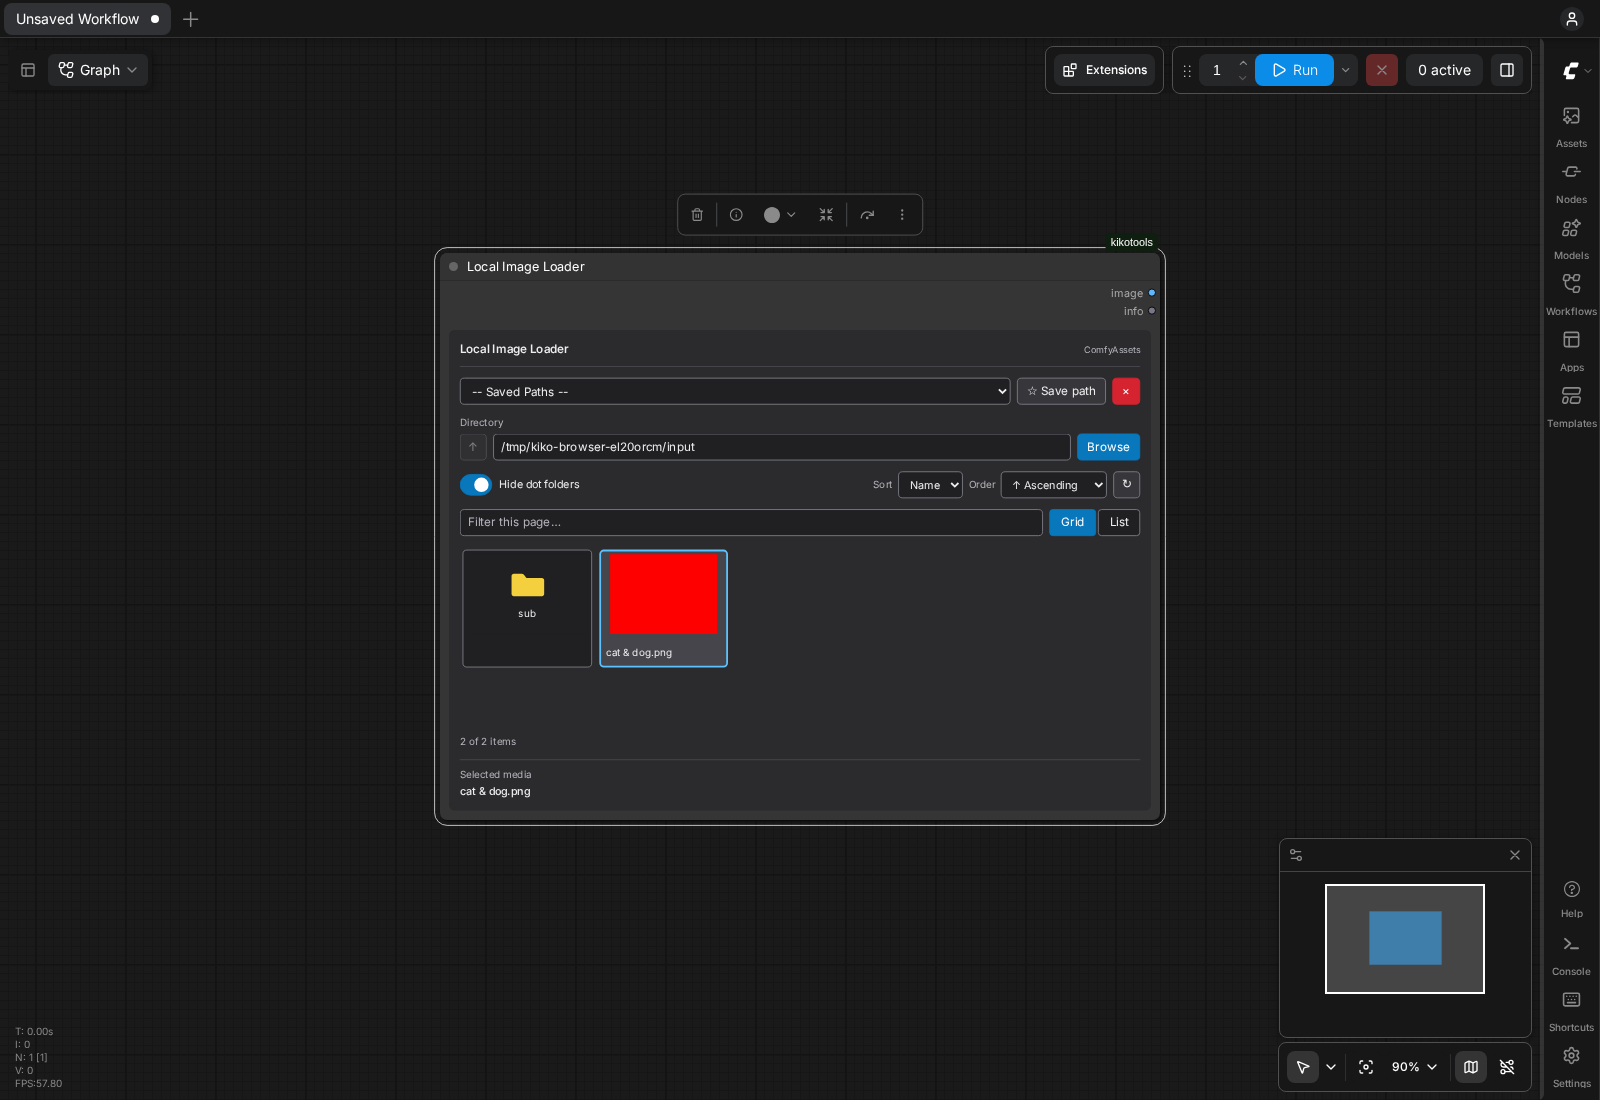
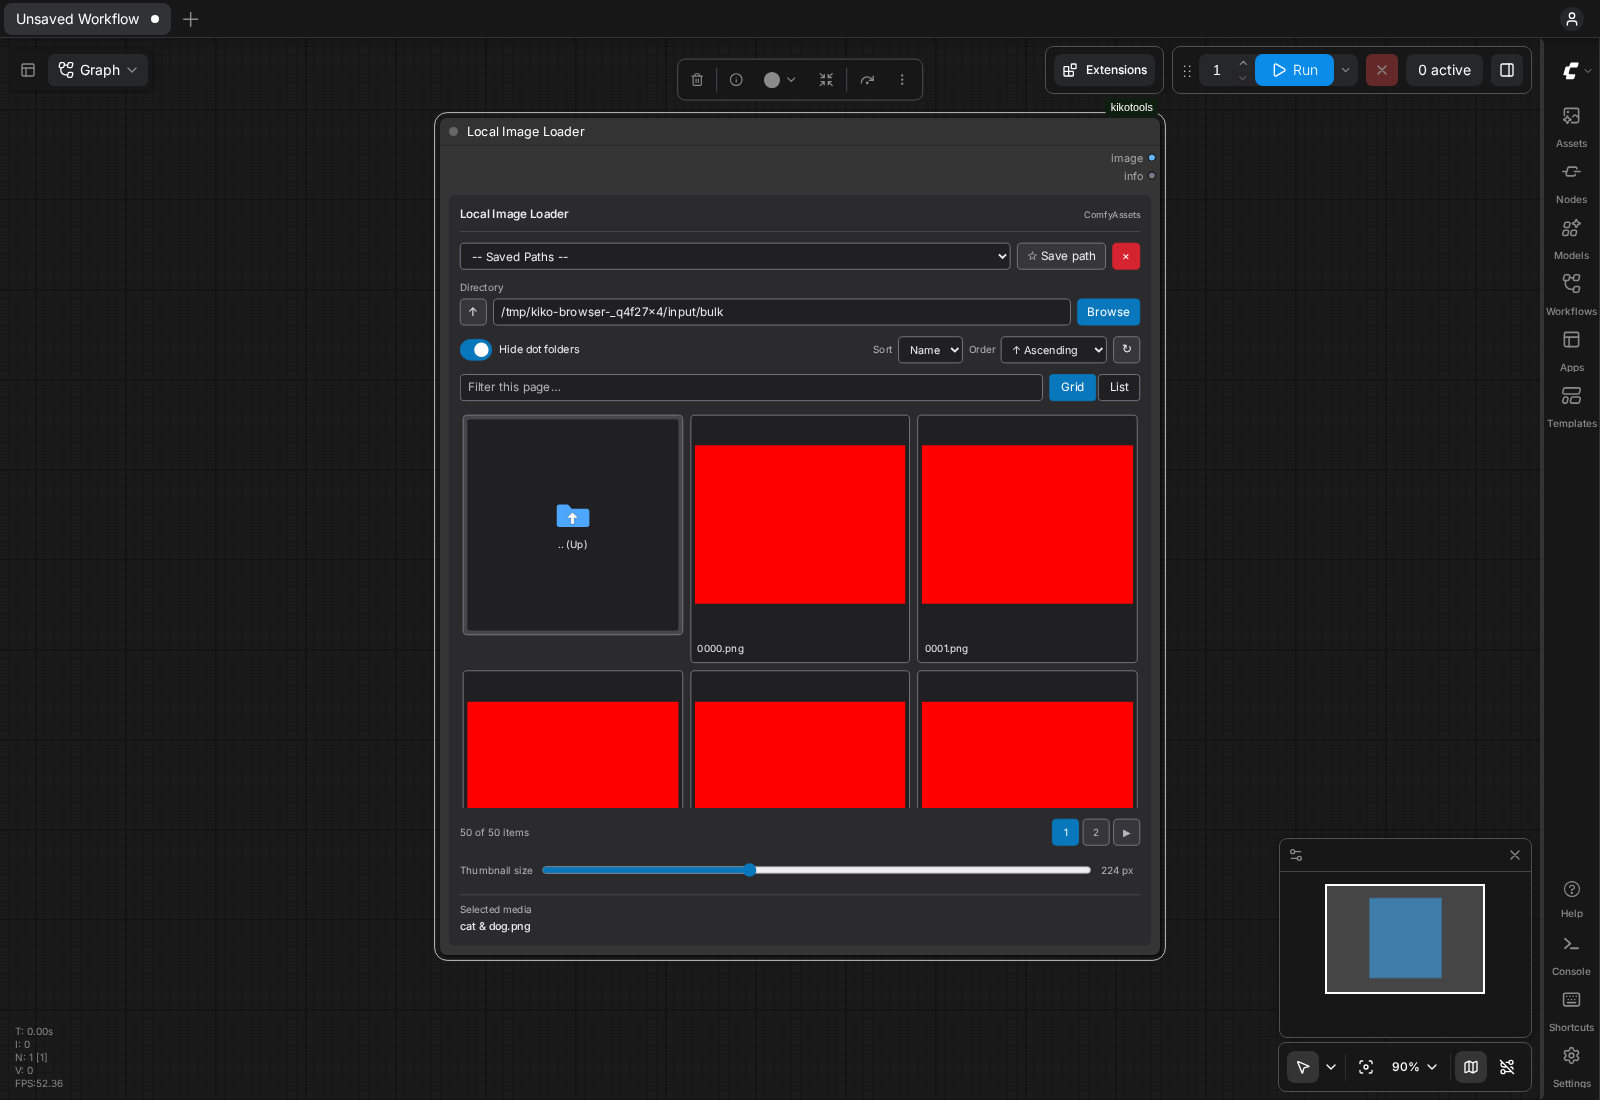
fix(ui): keep gallery thumbnails large and adjustable

Changed region(s): [[0.25, 0.0618, 0.75, 0.8964], [0.8438, 0.8655, 0.9062, 0.8964], [0.8438, 0.8036, 0.9062, 0.8345]]

diff --git a/web/ui/controls.css b/web/ui/controls.css
@@ -59,7 +59,7 @@
 .ca-tools .ca-segments input:checked + span { background: var(--ca-accent); border-color: var(--ca-accent); color: #fff; }
 .ca-tools .ca-segments input:focus-visible + span { outline: 2px solid var(--ca-focus); outline-offset: 2px; }
 .ca-tools .ca-visually-hidden { position: absolute; inline-size: 1px; block-size: 1px; clip-path: inset(50%); overflow: hidden; white-space: nowrap; }
-.ca-image-browser { inline-size: 100%; block-size: 100%; min-block-size: 350px; overflow: hidden; border-radius: 6px; container-type: inline-size; }
+.ca-image-browser { inline-size: 100%; block-size: 100%; min-block-size: 350px; overflow: hidden; border-radius: 6px; container-type: inline-size; contain: size; }
 .ca-image-browser .kiko-container-wrapper { display: flex; flex-direction: column; gap: 12px; padding: 12px; block-size: 100%; min-block-size: 350px; overflow: auto; }
 .ca-image-browser .ca-browser-header { display: flex; justify-content: space-between; align-items: center; gap: 8px; border-block-end: 1px solid var(--ca-line); padding-block-end: 8px; }
 .ca-image-browser .ca-browser-header strong { font-size: 13px; font-weight: 550; }
@@ -74,11 +74,11 @@
 .ca-image-browser .ca-sort select { font-size: 12px; }
 .ca-image-browser .ca-gallery-tools { flex-wrap: wrap; }
 .ca-image-browser .ca-file-filter { flex: 1; inline-size: 100px; }
-.ca-image-browser .kiko-cardholder { display: grid; grid-template-columns: repeat(auto-fill, minmax(min(100%, 140px), 1fr)); gap: 8px; align-content: start; overflow: auto; min-block-size: 100px; flex: 1; padding: 3px; }
+.ca-image-browser .kiko-cardholder { display: grid; grid-template-columns: repeat(auto-fill, minmax(min(100%, var(--ca-thumbnail-size, 224px)), 1fr)); grid-auto-rows: max-content; gap: 8px; align-items: start; align-content: start; overflow: auto; min-block-size: 100px; flex: 1; padding: 3px; }
 .ca-image-browser .ca-empty { grid-column: 1 / -1; text-align: center; padding: 24px 8px; color: var(--ca-muted); font-size: 12px; }
 .ca-image-browser button.kiko-gallery-card { display: flex; flex-direction: column; justify-content: start; min-inline-size: 0; overflow: hidden; border: 1px solid var(--ca-border); padding: 4px; white-space: normal; background: var(--ca-field); }
 .ca-image-browser button.kiko-gallery-card.kiko-selected { border: 2px solid var(--ca-focus); padding: 3px; }
-.ca-image-browser .kiko-card-media-wrapper { position: relative; inline-size: 100%; aspect-ratio: 1.5; overflow: hidden; border-radius: 3px; }
+.ca-image-browser .kiko-card-media-wrapper { position: relative; inline-size: 100%; aspect-ratio: 1; flex-shrink: 0; overflow: hidden; border-radius: 3px; }
 .ca-image-browser .kiko-card-media-wrapper img { display: block; inline-size: 100%; block-size: 100%; object-fit: contain; }
 .ca-image-browser .kiko-card-info-panel { inline-size: 100%; overflow: hidden; text-overflow: ellipsis; white-space: nowrap; text-align: start; padding: 6px 3px 3px; font-size: 11px; }
 .ca-image-browser :where(.kiko-folder-card, .kiko-audio-card) { display: flex; flex-direction: column; align-items: center; justify-content: center; gap: 4px; block-size: 100%; inline-size: 100%; background: var(--ca-field); }
@@ -94,6 +94,9 @@
 .ca-image-browser .kiko-pagination button { font-size: 11px; min-inline-size: 30px; padding-inline: 5px; }
 .ca-image-browser .ca-selection { border-block-start: 1px solid var(--ca-line); padding-block-start: 8px; }
 .ca-image-browser .ca-selection strong { font-size: 12px; font-weight: 500; overflow-wrap: anywhere; }
+.ca-tools .ca-range { display: flex; align-items: center; gap: 10px; flex-shrink: 0; color: var(--ca-muted); font-size: 11px; }
+.ca-tools .ca-range input[type="range"] { flex: 1; inline-size: 60px; min-inline-size: 0; margin: 0; padding: 0; border: 0; min-block-size: 30px; cursor: pointer; }
+.ca-tools .ca-range output { min-inline-size: 44px; font-variant-numeric: tabular-nums; }
 .ca-image-browser .kiko-status-message { padding: 10px; color: var(--ca-muted); border: 1px solid var(--ca-line); border-radius: 5px; font-size: 12px; }
 .ca-image-browser .kiko-status-message[data-state="error"] { color: var(--ca-error-text); background: var(--ca-error-bg); border-color: var(--ca-error); }
 .ca-image-browser .kiko-status-message code { overflow-wrap: anywhere; }

diff --git a/web/views/image-browser.js b/web/views/image-browser.js
@@ -1,4 +1,4 @@
-import { createButton, createField, createSelect, createSegments, createSwitch, mountTheme } from '../ui/core.js';
+import { createButton, createField, createSelect, createSegments, createSlider, createSwitch, mountTheme } from '../ui/core.js';
 
 export function createImageBrowser(id, settings, scope) {
     const element = document.createElement('div');
@@ -37,6 +37,9 @@ export function createImageBrowser(id, settings, scope) {
     filter.className = 'ca-file-filter';
     filter.setAttribute('aria-label', 'Filter this page');
     element.querySelector('.ca-gallery-tools').append(filter, createSegments('Gallery layout', [['grid', 'Grid'], ['list', 'List']], `${id}-view`, scope, value => { element.querySelector('.kiko-cardholder').dataset.view = value; }));
+    element.querySelector('.ca-browser-footer').after(createSlider('Thumbnail size', { id: `${id}-thumbnail-size`, min: 128, max: 384, step: 16, value: 224, unit: 'px' }, scope, value => {
+        element.style.setProperty('--ca-thumbnail-size', `${value}px`);
+    }));
     mountTheme(element, settings, scope);
     return element;
 }

diff --git a/web/ui/core.js b/web/ui/core.js
@@ -66,6 +66,25 @@ export function createButton(text, className = '') {
     return element;
 }
 
+export function createSlider(label, { id, min, max, step, value, unit }, scope, onInput) {
+    const field = document.createElement('div');
+    field.className = 'ca-range';
+    const caption = document.createElement('label');
+    caption.htmlFor = id;
+    caption.textContent = label;
+    const input = document.createElement('input');
+    Object.assign(input, { type: 'range', id, min, max, step, value });
+    const output = document.createElement('output');
+    output.setAttribute('for', id);
+    output.value = `${value} ${unit}`;
+    scope.listen(input, 'input', () => {
+        output.value = `${input.value} ${unit}`;
+        onInput(Number(input.value));
+    });
+    field.append(caption, input, output);
+    return field;
+}
+
 export function createField(label, input, id) {
     const field = document.createElement('label');
     field.className = 'ca-field';

diff --git a/web/kiko_local_image_loader.js b/web/kiko_local_image_loader.js
@@ -56,7 +56,7 @@ app.registerExtension({
                 });
 
                 // Set initial size for the node
-                this.size = [800, 600];
+                this.size = [800, 900];
                 this.setSize(this.size);
 
                 // Initialize gallery functionality

diff --git a/web/ui/README.md b/web/ui/README.md
@@ -5,6 +5,13 @@ blue controls and host-following light/dark themes. `../views/image-browser.js`
 composes these primitives; `../kiko_local_image_loader.js` retains the controller,
 API calls and existing selection persistence.
 
+Grid thumbnails default to 224 px with square preview areas and preserve the
+entire image. The Thumbnail size slider adjusts the grid from 128–384 px. A full
+page scrolls within the gallery instead of compressing the rows to fit the node.
+Thumbnail size is a per-node view setting for the current session.
+New nodes start at 800 × 900 to leave room for the larger previews. Existing
+workflows retain their saved node dimensions and can be resized normally.
+
 `createScope()` owns listeners, delayed work and a fetch cancellation signal.
 Dispose it on node removal. `mountTheme()` observes host palette changes and
 removes its observers/listeners with that scope. The module has no ComfyUI imports;
